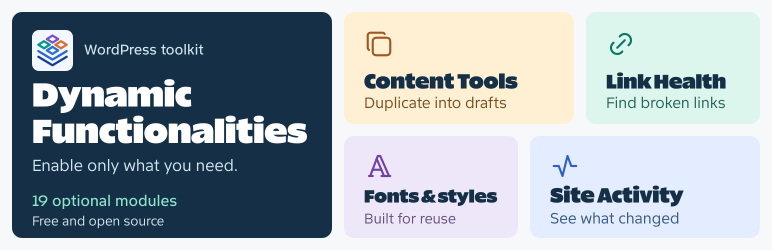
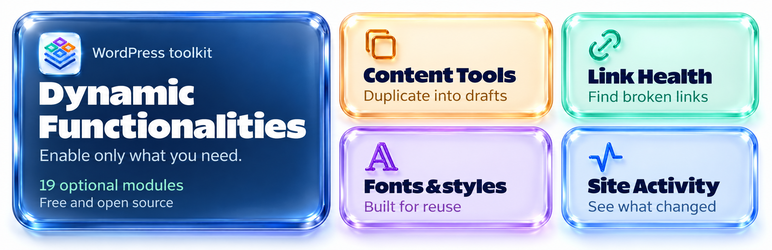
Render listing branding with colorful liquid glass materials

diff --git a/docs/branding-assets.md b/docs/branding-assets.md
@@ -1,33 +1,37 @@
-# Colorful listing assets for 1.7.0
+# Liquid-glass listing assets for 1.7.0
 
-The listing icon uses the same four modular tiles and two platform layers as `assets/brand/functionalities-admin.svg`. Its four tiles are violet, teal, orange, and blue; the platform uses two blue tones. An inset pale tile with transparent rounded corners keeps it recognizable on both light and dark listing surfaces. The admin UI continues to use its color-adaptive monochrome mark.
+The WordPress listing icon and bento banner use the approved four-color modular-platform identity with a 3D liquid-glass treatment: rounded translucent edges, clear bevels, internal reflections, soft refraction, and consistent studio lighting. The four logo tiles retain their violet, teal, orange, and blue identities above two blue platform layers. Transparent corners remain around the pale glass icon tile.
 
-The bento banner groups real product features beside the product name: Content Tools, Link Health, reusable fonts/styles, and Site Activity. The 19-module count comes from the current module registry. Colored surfaces are amber, mint, lavender, and pale blue, with a navy product tile. Heading typography uses Really Sans Large at 800; supporting copy uses Finlandica Text. Module glyphs use the bundled Tabler outline paths and existing MIT license.
+The bento banner retains the product name, 19-module count, and real feature groups: Content Tools, Link Health, reusable fonts/styles, and Site Activity. Its navy product panel and amber, mint, lavender, and blue feature panels use matching glass materials. All copy was visually checked after generation and again at the actual 772px listing width.
 
-## Files
+The materials were rendered with Codex's built-in image-generation tool from the approved flat listing assets. The glass icon was then provided as the material and identity reference for the banner. Native selected renders and exact prompts are preserved in `docs/branding-sources/`; the earlier editable flat SVGs remain there as identity/layout references. The runtime admin mark remains the color-adaptive vector at `assets/brand/functionalities-admin.svg`.
+
+## Listing exports
 
 | File in `.wordpress-org/` | Purpose | Pixels |
 |---|---|---|
-| `icon.svg` | Editable, scalable colorful listing icon | 256-unit square |
-| `icon-128x128.png` | Standard listing fallback | 128 x 128 |
-| `icon-256x256.png` | Retina listing fallback | 256 x 256 |
-| `banner.svg` | Editable bento banner master | 1544 x 500 units |
-| `banner-772x250.png` | Standard listing banner | 772 x 250 |
-| `banner-1544x500.png` | Retina listing banner | 1544 x 500 |
+| `icon-128x128.png` | Standard listing icon | 128 x 128 |
+| `icon-256x256.png` | Retina listing icon | 256 x 256 |
+| `banner-772x250.png` | Standard bento banner | 772 x 250 |
+| `banner-1544x500.png` | Retina bento banner | 1544 x 500 |
 
-The exact filenames, pixel dimensions, and SVG-plus-PNG fallback follow the [WordPress Plugin Handbook](https://developer.wordpress.org/plugins/wordpress-org/plugin-assets/). The banner master has no embedded raster data, remote resources, or font files; its PNG exports preserve the installed brand typography independently of fonts on the viewer's device.
+The exact filenames and pixel dimensions follow the [WordPress Plugin Handbook](https://developer.wordpress.org/plugins/wordpress-org/plugin-assets/). Listing SVGs were moved into the source archive so WordPress does not prefer the earlier flat SVG over the new glass PNGs. The configured 10up deployment action syncs its assets directory with deletion, so the superseded listing SVG is removed during the next public release.
 
 ## Verification and reproduction
 
-Both SVG masters passed the strict SVG validator. The banner was checked at its actual 772px display width with an 11px minimum text floor. PNG signatures, exact dimensions, and WordPress file-size limits passed; the icon was inspected at both 128px and 256px, and the banner at both delivery sizes. All four PNGs together are under 165KB. The original outline paths were retained, with the combined platform path split only to assign its two colors.
+- Inspected both native renders, both icon delivery sizes, and both banner sizes. The icon was also composited on white and dark backgrounds for alpha/edge inspection.
+- PNG signatures, exact dimensions, transparent icon corners, and WordPress file-size limits passed. Icons are below 110KB and banners below 815KB.
+- The native banner is 2203 x 714; the native icon is 1254 x 1254. Listing exports are downsampled, with no enlargement. The banner's native ratio differs from the exact listing ratio by less than 0.1%.
+- The brand silhouette and all feature labels remain recognizable. Generation adds material detail; the archived flat SVGs remain the editable geometry and typography references rather than being presented as the source of the raster glass effects.
+- No runtime PHP, JavaScript, CSS, settings, or frontend behavior changed in this asset pass.
 
-Render from the editable masters using `rsvg-convert`, with the brand fonts installed:
+Export from the selected native renders with ImageMagick:
 
 ```sh
-rsvg-convert -w 128 -h 128 .wordpress-org/icon.svg -o .wordpress-org/icon-128x128.png
-rsvg-convert -w 256 -h 256 .wordpress-org/icon.svg -o .wordpress-org/icon-256x256.png
-rsvg-convert -w 772 -h 250 .wordpress-org/banner.svg -o .wordpress-org/banner-772x250.png
-rsvg-convert -w 1544 -h 500 .wordpress-org/banner.svg -o .wordpress-org/banner-1544x500.png
+magick docs/branding-sources/icon-liquid-glass.png -filter Lanczos -resize 128x128 .wordpress-org/icon-128x128.png
+magick docs/branding-sources/icon-liquid-glass.png -filter Lanczos -resize 256x256 .wordpress-org/icon-256x256.png
+magick docs/branding-sources/banner-liquid-glass.png -filter Lanczos -resize 772x250! .wordpress-org/banner-772x250.png
+magick docs/branding-sources/banner-liquid-glass.png -filter Lanczos -resize 1544x500! .wordpress-org/banner-1544x500.png
 ```
 
-These are prepared release assets. Public WordPress.org deployment is handled by the release workflow separately from the tested Gatilab runtime candidate.
+These are prepared release assets. Public WordPress.org deployment remains separate from the tested Gatilab runtime candidate.
